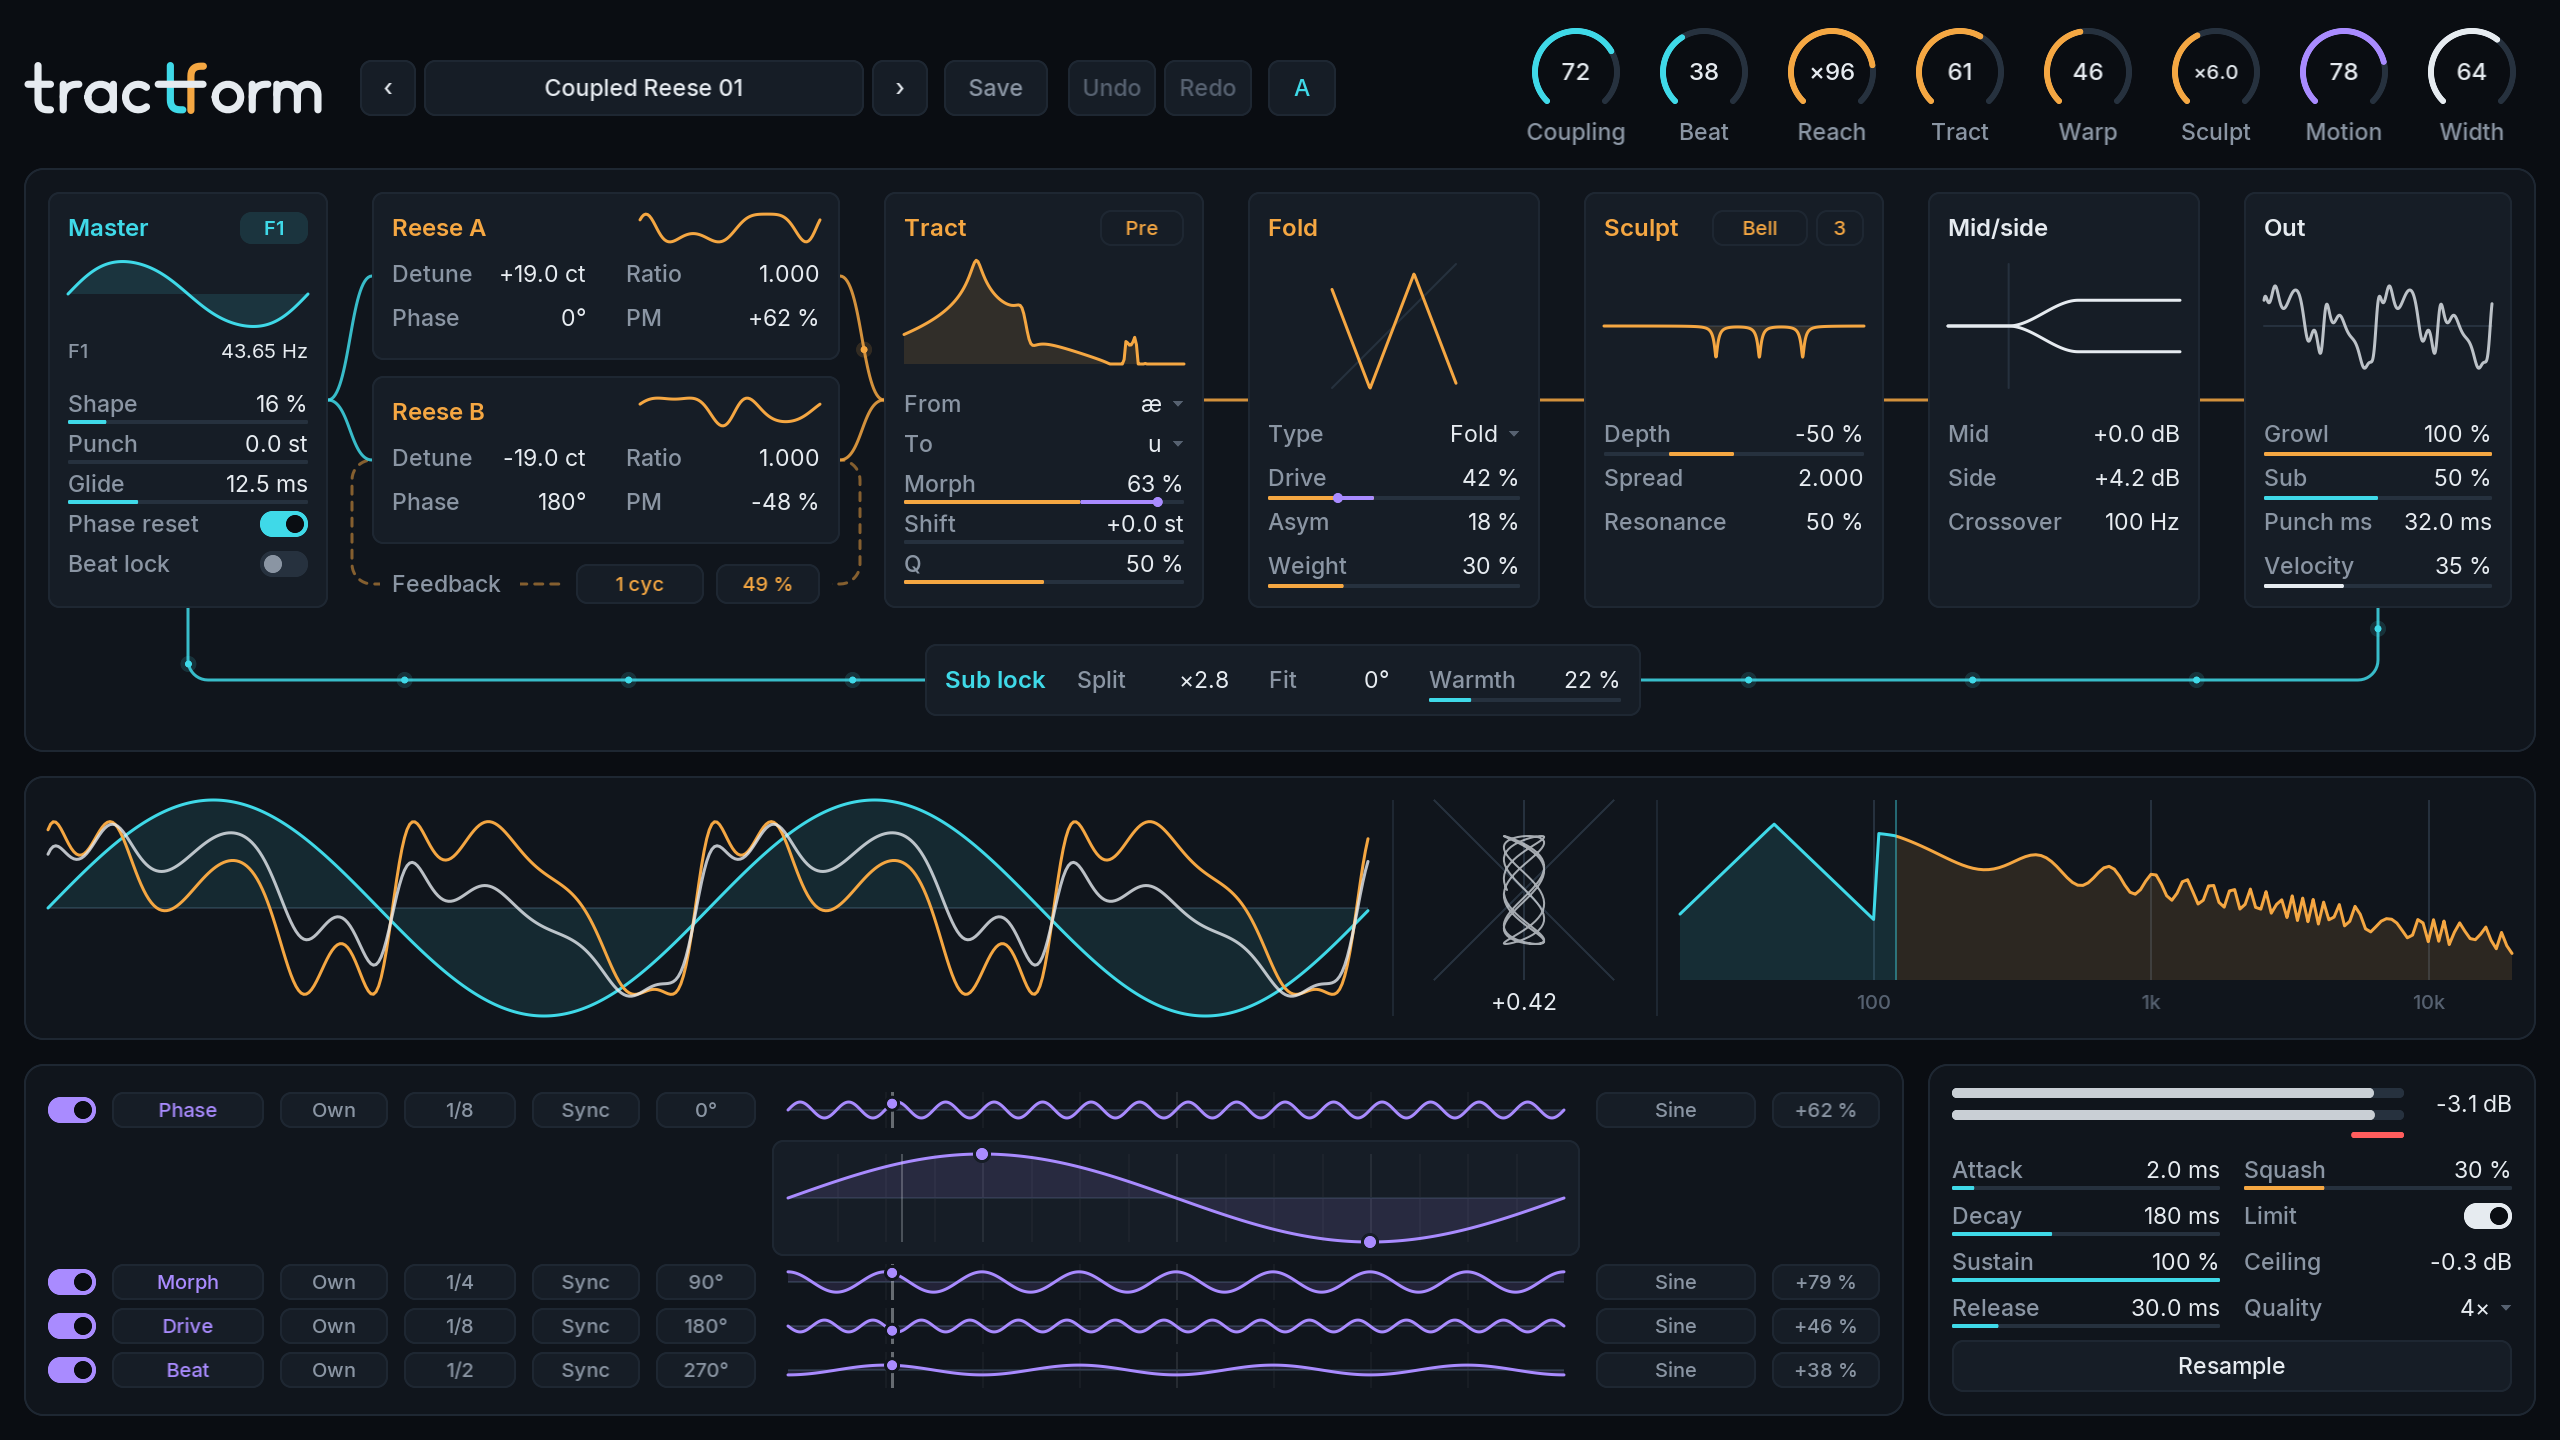
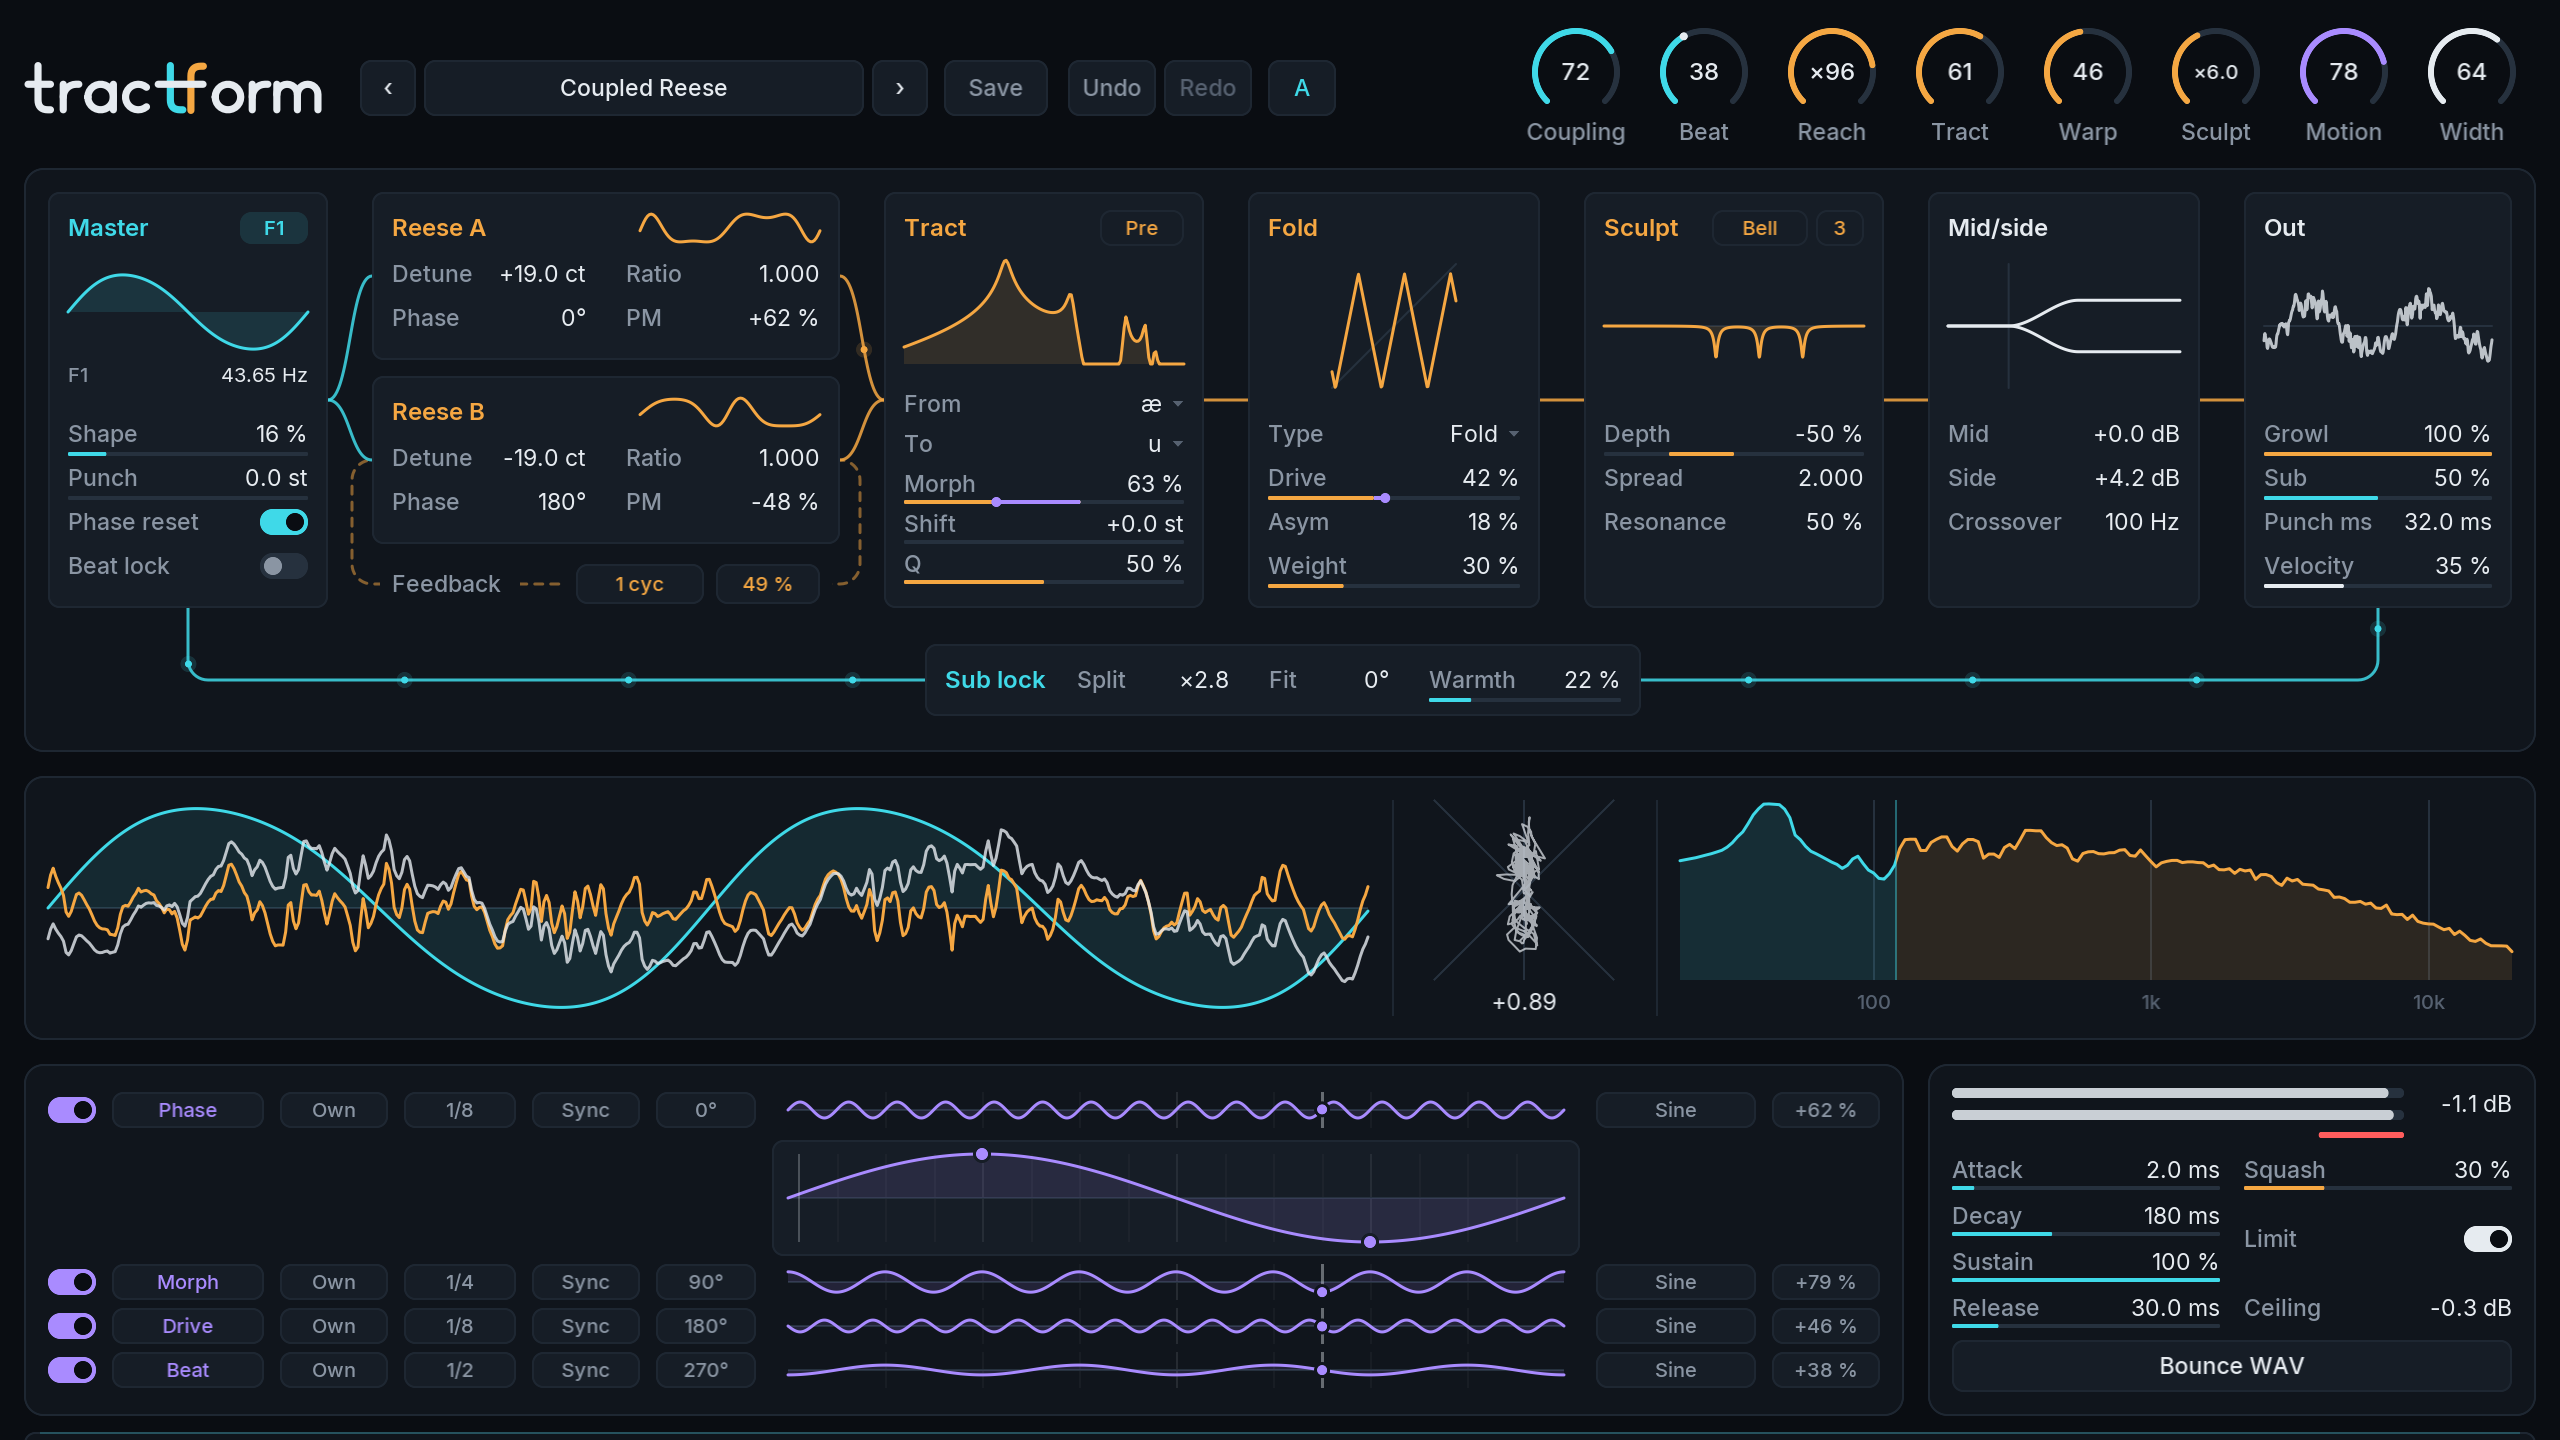
Refresh Tract Form press captures and document WAV export controls

diff --git a/products/tract-form/brand/build.py b/products/tract-form/brand/build.py
@@ -32,7 +32,7 @@ from fontTools.ttLib import TTFont
 ROOT = Path(__file__).resolve().parent.parent
 BRAND = ROOT / "brand"
 PRESS = ROOT / "press"
-FONTS = ROOT / "ui" / "fonts"
+FONTS = ROOT.parents[1] / "modules" / "visage-ui" / "fonts"
 RESVG = shutil.which("resvg") or "/opt/homebrew/bin/resvg"
 
 # The palette is the plugin's own (ui/src/theme.h).

diff --git a/products/tract-form/docs/superpowers/specs/2026-11-15-tract-form-design.md b/products/tract-form/docs/superpowers/specs/2026-11-15-tract-form-design.md
@@ -183,28 +183,29 @@ One screen, no tabs, 16:9, resizable with a fixed aspect ratio. Default
 1280×720 logical pixels, minimum 960×540.
 
 - **Top bar**: clickable product wordmark opening the studio About page, preset name with previous/next and save, six macro
-  knobs.
+  knobs. The host preset menu offers categorized presets, Save User Preset and A/B copy.
+  Shift+Enter on A/B also copies the active slot.
 - **Signal graph**: Master, Reese A, Reese B with the feedback loop, Tract, Fold,
   Sculpt, Mid/side, Out. The sub path runs underneath from Master to Out. Each node draws
   its own live shape and holds its own values, edited by dragging.
 - **Analysis**: scope (master, growl, output), phase correlation, spectrum.
 - **Movement**: four lanes with on, rate, phase, depth and shape, drawn with a
   moving playhead. Beside them: meters, Squash, Limit, Ceiling, Quality,
-  Resample.
+  Bounce WAV.
 
 No taglines, legends or helper text. Everything is drawn as vectors; no bitmaps.
 
 `ui` reads and writes through `ui::Model`: real-valued get/set with gesture
-begin and end, preset operations, Resample, and a `Visuals` snapshot (a scope
+begin and end, preset operations, offline WAV rendering, and a `Visuals` snapshot (a scope
 phase-locked to the master, stereo field, spectrum, levels, gain reduction, lane
 state, current note). `FakeModel` drives headless rendering.
 
-## Resample
+## Bounce WAV
 
 Renders the current patch offline at 16× for exactly four bars at the host tempo
 and the last played note, writes 32-bit float WAV to
-`~/Music/Tract Form/Resamples/`, and turns the button into a drag source for
-that file.
+`~/Music/Tract Form/Resamples/`, and displays Drag WAV when the file is ready. The button displays Rendering
+while busy and Retry WAV after a failed render or write.
 
 ## Presets
 
